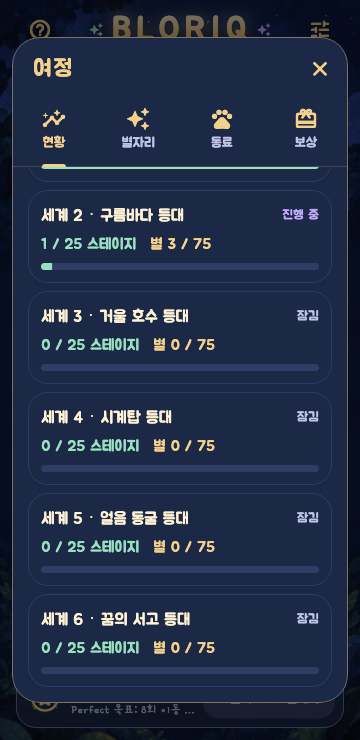
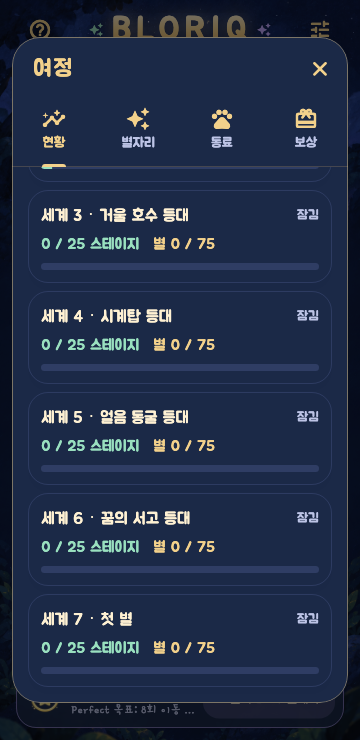
Verify Journey progress across all seven worlds
여정 현황 테스트와 캡처를 일곱 세계 175판 기준으로 갱신한다.

diff --git a/test/journey_panel_test.dart b/test/journey_panel_test.dart
@@ -124,9 +124,9 @@ void main() {
 
       final world1 = releaseKey('journey-world-1');
       final world2 = releaseKey('journey-world-2');
-      final world6 = releaseKey('journey-world-6');
-      expect(find.text('26 / 150 스테이지'), findsOneWidget);
-      expect(find.text('별 78 / 450'), findsOneWidget);
+      final world7 = releaseKey('journey-world-7');
+      expect(find.text('26 / 175 스테이지'), findsOneWidget);
+      expect(find.text('별 78 / 525'), findsOneWidget);
       expect(
         find.descendant(of: world1, matching: find.text('완료')),
         findsOneWidget,
@@ -140,9 +140,9 @@ void main() {
         findsOneWidget,
       );
       await _captureJourney(tester, boundary, 'journey-status');
-      await _reveal(tester, _status, world6);
+      await _reveal(tester, _status, world7);
       expect(
-        find.descendant(of: world6, matching: find.text('잠김')),
+        find.descendant(of: world7, matching: find.text('잠김')),
         findsOneWidget,
       );
       await _captureJourney(tester, boundary, 'journey-status-later-worlds');
@@ -208,7 +208,7 @@ void main() {
       await _reveal(tester, _rewards, _lastReward);
 
       await tapVisible(tester, _tab('현황'));
-      expect(world6.hitTestable(), findsOneWidget);
+      expect(world7.hitTestable(), findsOneWidget);
       await tapVisible(tester, _tab('동료'));
       expect(last.hitTestable(), findsOneWidget);
       await tapVisible(tester, _tab('보상'));
@@ -252,7 +252,7 @@ void main() {
           ),
         );
         await tapVisible(tester, find.text('OPEN'));
-        await _reveal(tester, _status, releaseKey('journey-world-6'));
+        await _reveal(tester, _status, releaseKey('journey-world-7'));
 
         await tapVisible(tester, _tab(language == 'ko' ? '별자리' : 'Stars'));
         expect(tester.widget<Text>(_pageCount).data, startsWith('2 / 5'));
